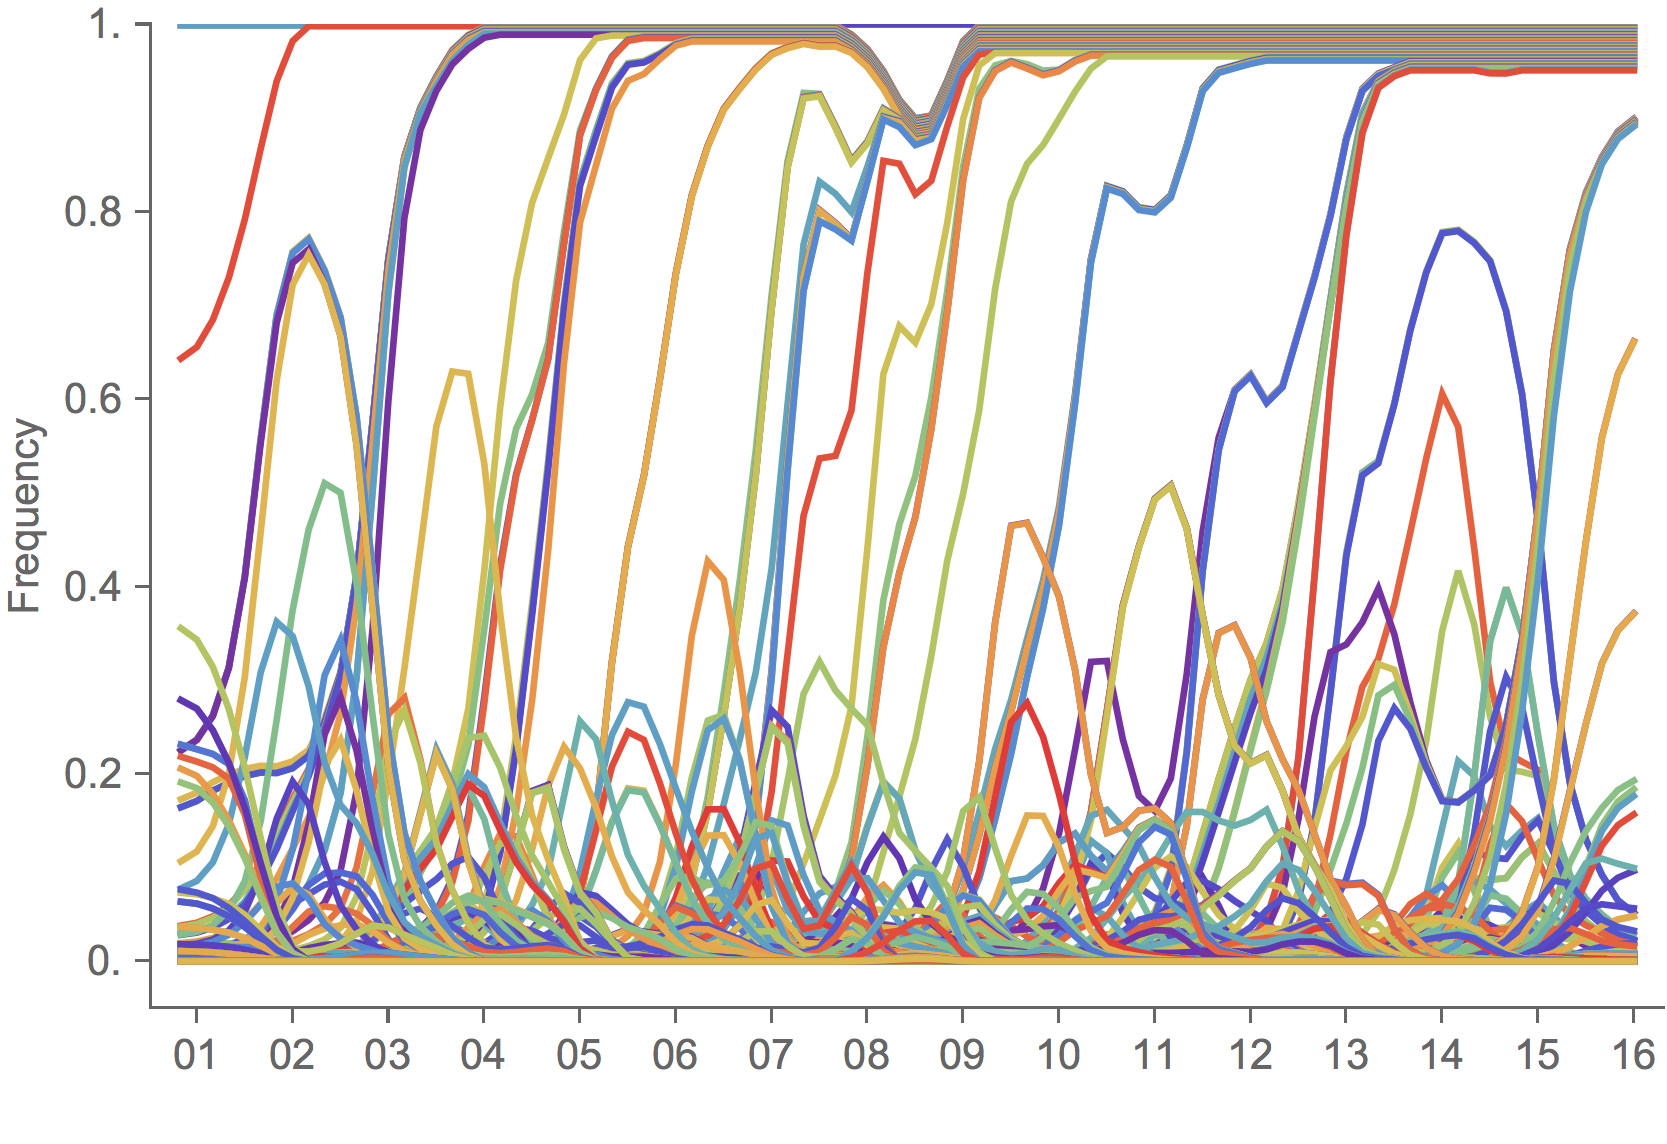
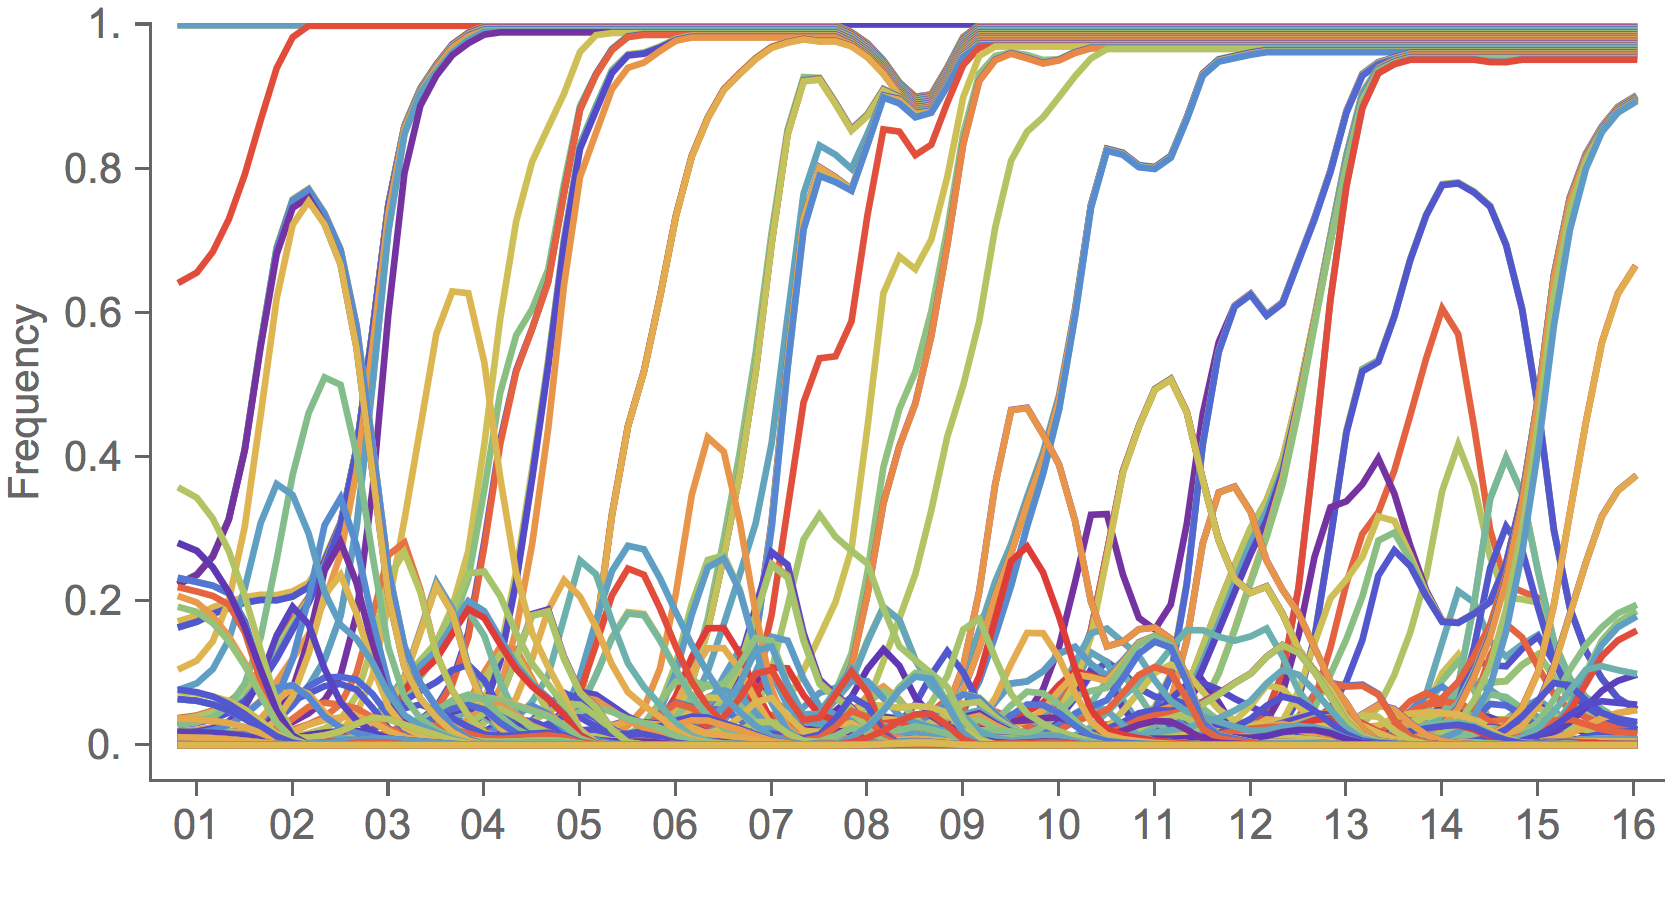
Update Princeton talk.

diff --git a/talks/_posts/2016-07-06-real-time-prediction-princeton.html b/talks/_posts/2016-07-06-real-time-prediction-princeton.html
@@ -89,6 +89,16 @@ draft: true
 </section>
 
 <section>
+	<h3>Interference visible between clades</h3>
+	<br>
+	<div style="vertical-align: bottom; display: table-cell;">
+		<img width="49%" src="/images/talks/prediction_combined_trajectories.png">
+		&nbsp;
+		<img width="49%" src="/images/talks/clonal_interferance.jpg">
+	</div>	
+</section>
+
+<section>
 	<h3>Chance of fixation based on initial frequency</h3>
 	<img class="stretch" src="/images/talks/prediction_chance_of_fixation.png">
 </section>
